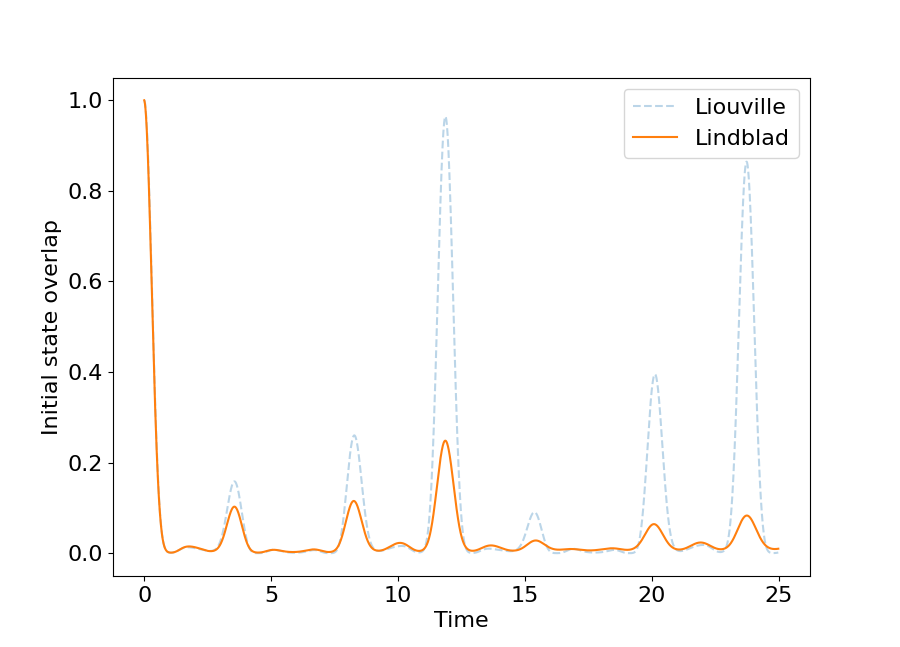
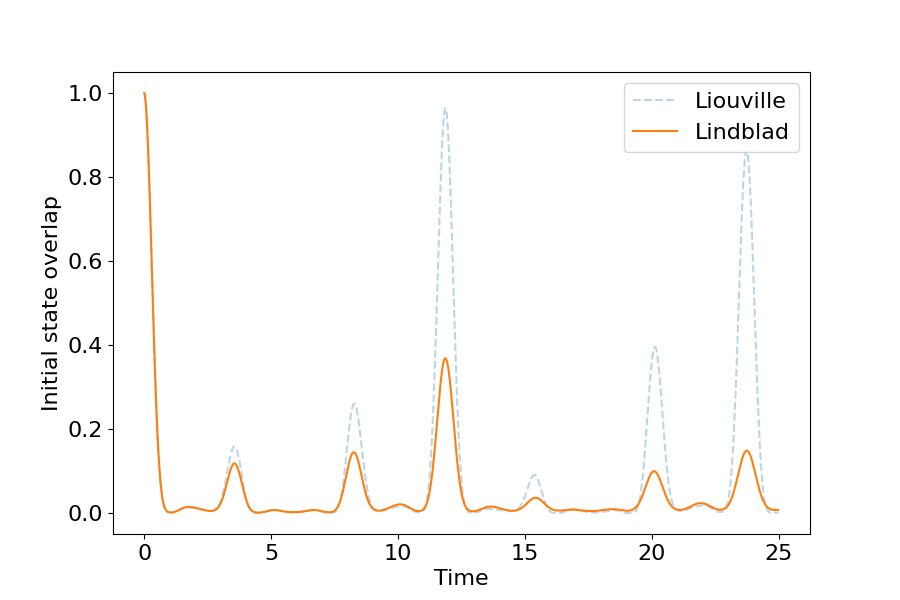
done

diff --git a/Ex_2_b_fermionic_chain/fermionic_chain.py b/Ex_2_b_fermionic_chain/fermionic_chain.py
@@ -92,21 +92,23 @@ result = qt.mesolve(H, rho0, t_list, L, [])
 # Plot results
 # The Fock states in QuTiP are ordered in binary counting order, meaning that each Fock state corresponds to a binary representation of occupation numbers
 
-# max_dist = np.max(np.abs(result.states[-1].full()))
-# qt.plot_fock_distribution(result.states[-1])
-# plt.title(f"Fermionic Chain of length {N}")
-# plt.ylim([0,(1.01)*max_dist])
+max_dist = np.max(np.abs(result.states[-1].full()))
+qt.plot_fock_distribution(result.states[-1])
+plt.title(f"Fermionic Chain of length {N}")
+plt.ylim([0,(1.01)*max_dist])
 # plt.show()
 # exit()
 # ------------------------------------------------------------------------
 
 
 # ------------------------------------------------------------------------
-# occupations = [qt.expect(create(i, N) * annihilate(i, N), result.states[-1]) for i in range(N)]
-# plt.plot(range(N), occupations, 'o-')
-# plt.title(f"Fermionic Chain of length {N}")
-# plt.xlabel("Site Index")
-# plt.ylabel(f"Fermion Occupation")
+occupations = [qt.expect(create(i, N) * annihilate(i, N), result.states[-1]) for i in range(N)]
+
+fig, ax = plt.subplots(figsize=(9,6))
+ax.plot(range(N), occupations, 'o-')
+ax.set_title(f"Fermionic Chain of length {N}")
+ax.set_xlabel("Site Index")
+ax.set_ylabel(f"Fermion Occupation")
 # plt.show()
 # exit()
 # ------------------------------------------------------------------------
@@ -122,10 +124,10 @@ curr_in = [gamma_gain*(1-qt.expect(n1, state)) for state in result.states]
 curr_out = [gamma_loss*(qt.expect(nN, state)) for state in result.states]
 
 # Plot occupation vs. time
-fig, ax = plt.subplots(figsize=(9,6))
+fig, ax1 = plt.subplots(figsize=(9,6))
 
-ax.plot(t_list, curr_in, label=r"$I_{\text{in}}$")
-ax.plot(t_list, curr_out, label=r"$I_{\text{out}}$")
+ax1.plot(t_list, curr_in, label=r"$I_{\text{in}}$")
+ax1.plot(t_list, curr_out, label=r"$I_{\text{out}}$")
 plt.xscale("log")
 plt.xlabel("Time")
 plt.ylabel(r"Current $I$")

diff --git a/Ex_2_a_spin_chain/spinchain.py b/Ex_2_a_spin_chain/spinchain.py
@@ -18,13 +18,14 @@ times = np.linspace(0,(nsteps-1)*dt,nsteps)
 nsite = 3 #amount of spins
 ndvr = 2**nsite #Hilbertspace dimension
 OMEGA_i = [0.65,1.0,1.0]
+# OMEGA_i = [0.0,0.0,0.0]
 Jix = [0.75,1.0]
 Jiy = [0.75,1.0]
 Jiz = [0.0,0.0]
 
 # damping rates
-Gamma1 = [1/30.0] * nsite
-Gamma2 = [1/30.0] * nsite
+Gamma1 = [1/60.0] * nsite #dissipation
+Gamma2 = [1/30.0] * nsite #dephasing
 
 # Lindbladian yet to fill
 Lindbladian = []
@@ -140,13 +141,15 @@ ax.plot(times,overlaps,label='Lindblad')
 ax.set_xlabel('Time')
 ax.set_ylabel('Initial state overlap')
 ax.legend()
-plt.show()
-exit()
+# plt.show()
+# exit()
 # -------------------------------------------------
 
 
 # -------------------------------------------------
+max_dist = np.max(np.abs(result.states[-1].full()))
 qt.plot_fock_distribution(result.states[-1])
 plt.title("Spin Chain")
+plt.ylim([0,(1.01)*max_dist])
 plt.show()
 # -------------------------------------------------

diff --git a/Ex_1_e_protect_coherence/qubit_coh_prot_bloch.py b/Ex_1_e_protect_coherence/qubit_coh_prot_bloch.py
@@ -96,7 +96,7 @@ def update(i):
 ani = FuncAnimation(fig, update, frames=len(times), interval=100, repeat=False)
 
 # save if wanted
-ani.save("qubit_prot_coh_bloch_animation.gif", writer=PillowWriter(fps=20))
+# ani.save("qubit_prot_coh_bloch_animation.gif", writer=PillowWriter(fps=20))
 
 plt.show()
 

diff --git a/Ex_1_d_purity/spinsystem_competing_bloch.py b/Ex_1_d_purity/spinsystem_competing_bloch.py
@@ -136,6 +136,6 @@ def update(i):
 ani = FuncAnimation(fig, update, frames=len(times), interval=10, repeat=False)
 
 # save if wanted
-ani.save("bloch_animation.gif", writer=PillowWriter(fps=20))
+# ani.save("bloch_animation.gif", writer=PillowWriter(fps=20))
 
 plt.show()
